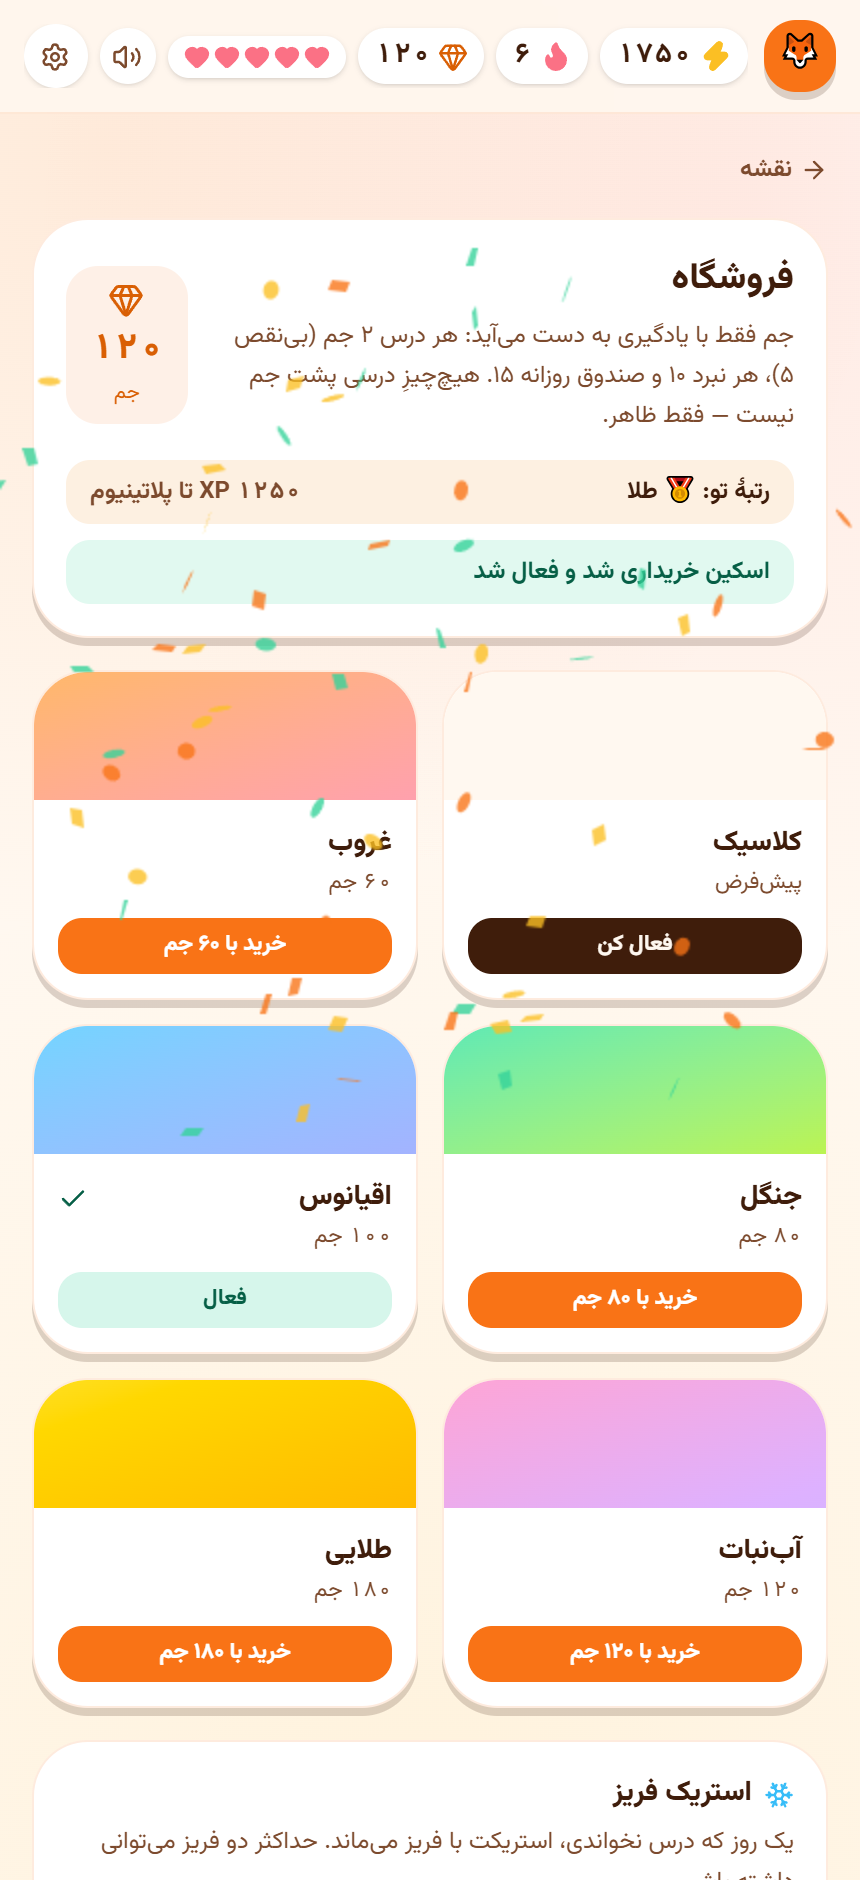
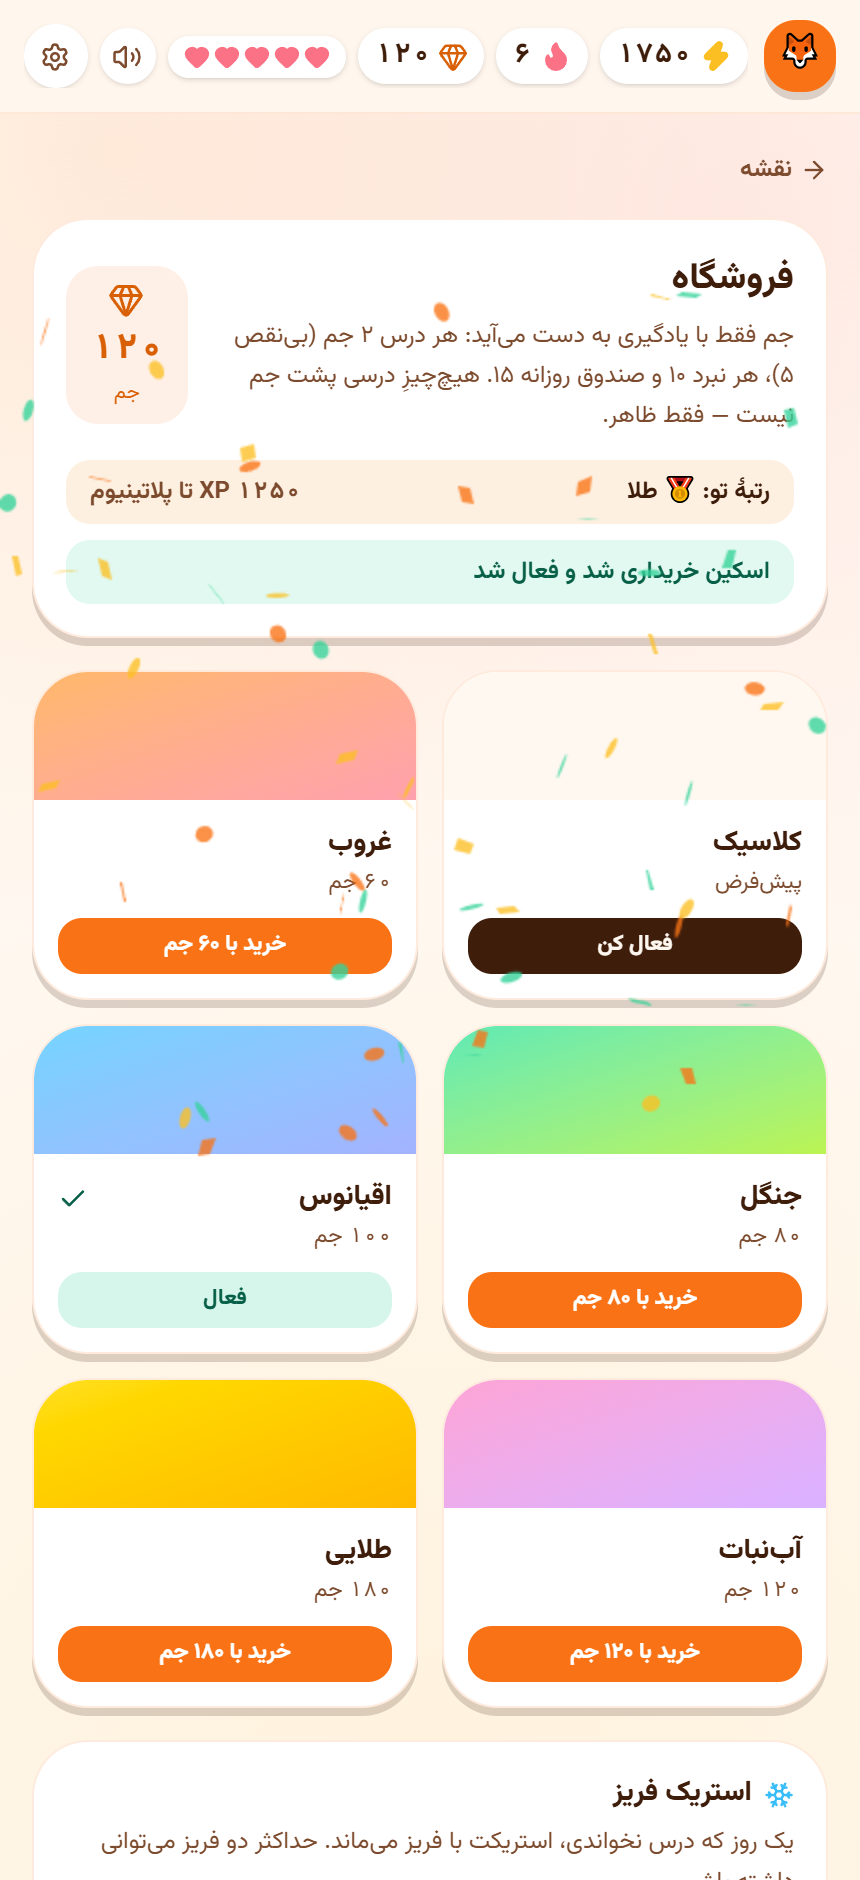
Honest ads placeholder in the shop and a reminder note in settings

diff --git a/src/app/app/settings/page.tsx b/src/app/app/settings/page.tsx
@@ -191,6 +191,17 @@ export default function SettingsPage() {
         </section>
 
         <section className="card p-4">
+          <h2 className="text-sm font-extrabold text-plum">یادآور روزانه</h2>
+          <p className="mt-1 text-[11px] leading-5 text-plum-soft">
+            اگر امروز درس نخوانی، یک نوار یادآور بالای نقشه ظاهر میشود. (اعلان سیستمی وقتی نسخهٔ نصبشدنی
+            و حساب کاربری اضافه شود فعال میشود.)
+          </p>
+          <p className="mt-2 rounded-xl bg-sand px-3 py-2 text-[11px] font-bold text-plum">
+            الان روشن است — روی همین دستگاه، بدون نیاز به اجازهٔ اعلان.
+          </p>
+        </section>
+
+        <section className="card p-4">
           <h2 className="text-sm font-extrabold text-plum">تصویرها</h2>
           <p className="mt-1 text-[11px] leading-5 text-plum-soft">
             تصاویر کلمهها از مجموعهٔ اپنسورس{" "}

diff --git a/src/app/app/shop/page.tsx b/src/app/app/shop/page.tsx
@@ -135,8 +135,15 @@ export default function ShopPage() {
             <Sparkles size={15} /> بعدی
           </h2>
           <p className="mt-1 text-[11px] leading-5 text-plum">
-            بستهٔ آفلاین، آزمون تعیین سطح و زبانیار پلاس در نقشهٔ درآمد آمدهاند؛ اول باید لایهٔ رایگان کامل بماند.
+            بستهٔ آفلاین و زبانیار پلاس در نقشهٔ درآمد آمدهاند؛ اول باید لایهٔ رایگان کامل بماند.
           </p>
+          <button
+            type="button"
+            disabled
+            className="mt-2 w-full cursor-not-allowed rounded-xl bg-white/60 py-2 text-[11px] font-bold text-plum/50"
+          >
+            تماشای ویدیوی پاداشدار → ۲۰ جم (بهزودی)
+          </button>
         </section>
       </main>
     </div>
